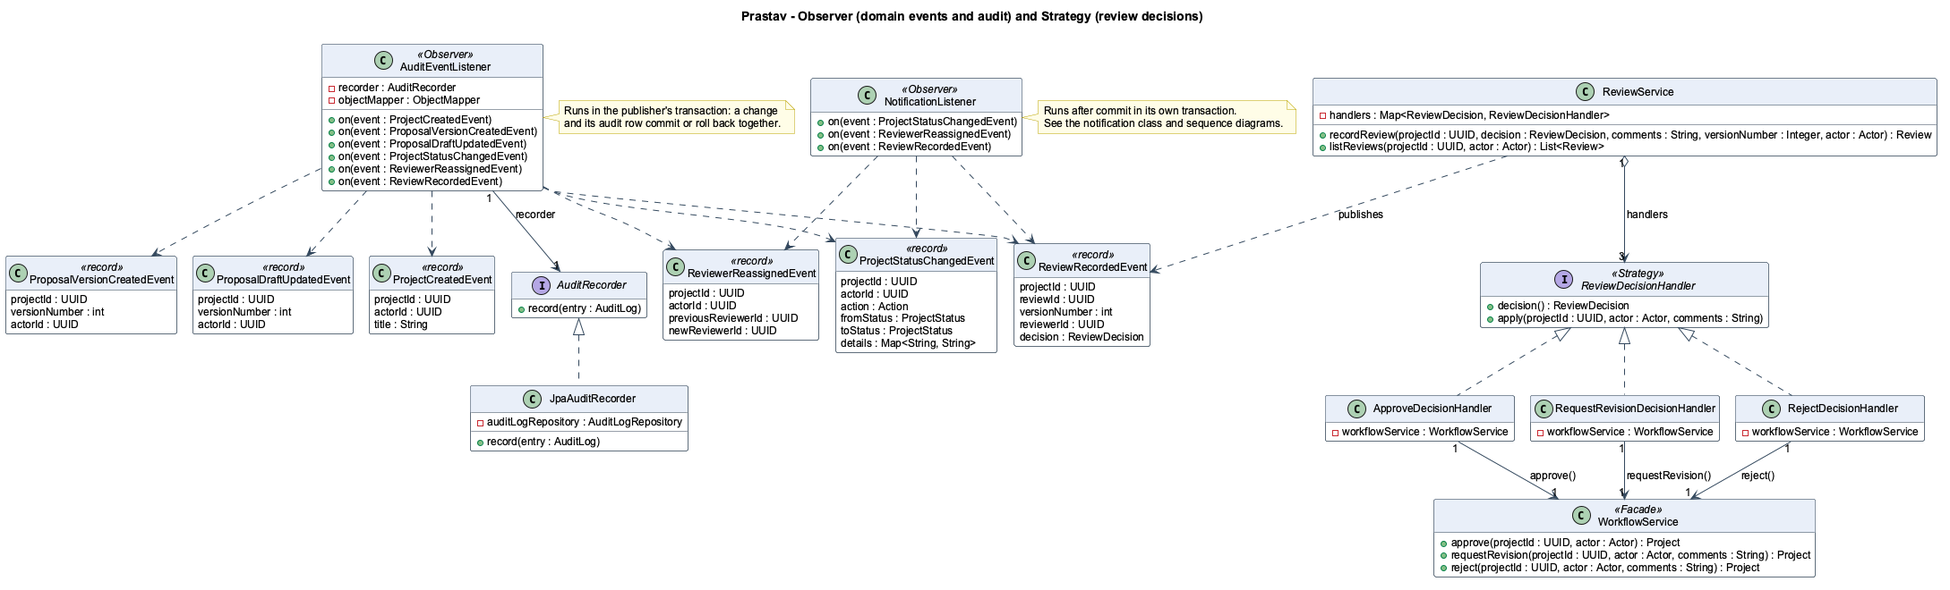
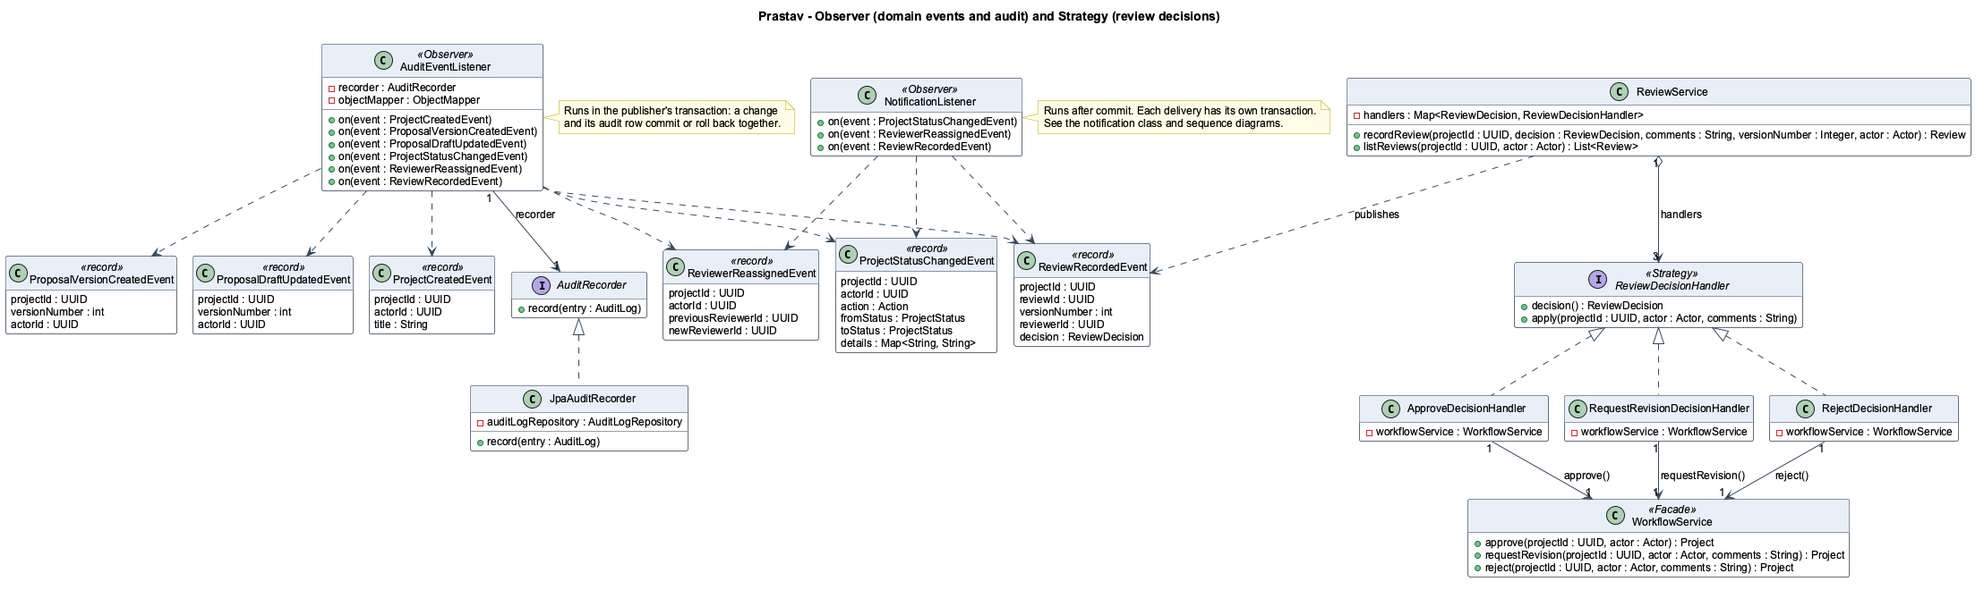
docs(notification): final delivery and conflict behaviour, dispatch diagram and FR-13

diff --git a/docs/LLD.md b/docs/LLD.md
@@ -70,8 +70,8 @@ AI proposal analysis, ML risk prediction, GitHub integration, an external event 
 | Optimistic locking on `Project` | `@Version Long version`, `CONCURRENT_UPDATE` mapping |
 | Swagger UI with Bearer auth | `OpenApiConfig`, `/swagger-ui.html` |
 | `allowedActions` in project detail | `AllowedActionsResolver`, `ProjectDetailResponse.allowedActions` |
-| Unit tests: every state, WorkflowService, ReviewService, versioning, project list and counts, email policy, registration and account creation, notification service, listener, channels and retries, reviewer reassignment, coordinator dashboard, audit query, notification flow, concurrent updates | 309 tests in `backend/src/test/java` (see section 16) |
-| MockMvc tests (401 / 403 / 404 / 409 / 400 mapping, list and summary endpoints, coordinator dashboard, account creation, notification inbox, audit log) | `ProjectControllerWebTest` (23 tests), `DashboardControllerWebTest` (6 tests), `ProposalControllerWebTest` (7 tests), `UserControllerWebTest` (4 tests), `NotificationControllerWebTest` (12 tests), `AuditControllerWebTest` (20 tests), `ConcurrentSubmissionWebTest` (4 tests) |
+| Unit tests: every state, WorkflowService, ReviewService, versioning, project list and counts, email policy, registration and account creation, notification service, listener, channels and retries, reviewer reassignment, coordinator dashboard, audit query, notification flow, concurrent updates | 321 tests in `backend/src/test/java` (see section 16) |
+| MockMvc tests (401 / 403 / 404 / 409 / 400 mapping, list and summary endpoints, coordinator dashboard, account creation, notification inbox, audit log) | `ProjectControllerWebTest` (23 tests), `DashboardControllerWebTest` (6 tests), `ProposalControllerWebTest` (8 tests), `UserControllerWebTest` (5 tests), `AuthControllerWebTest` (2 tests), `NotificationControllerWebTest` (12 tests), `AuditControllerWebTest` (20 tests), `ConcurrentSubmissionWebTest` (4 tests) |
 | React UI for three roles | `frontend/src` |
 | PostgreSQL via Docker Compose | `docker-compose.yml` (database only) |
 
@@ -268,10 +268,10 @@ Sequence for one event, for example a reviewer requesting changes:
 
 1. `ReviewService.recordReview` runs the transition and saves the `Review` in its transaction, then publishes `ReviewRecordedEvent`. `AuditEventListener` writes `REVIEW_RECORDED` inside that transaction.
 2. Spring holds the event for `NotificationListener` (`@TransactionalEventListener`, phase AFTER_COMMIT) until the transaction commits. If it rolls back, the listener is never called and nobody is notified about a change that did not happen.
-3. After the commit the listener starts a new transaction (`@Transactional(propagation = REQUIRES_NEW)`), loads the project through `ProjectStore.getById` and picks the recipient: the owner for a decision, the reviewer for an assignment or resubmission.
+3. After the commit the listener runs with no transaction of its own (`@Transactional(propagation = NOT_SUPPORTED)`), loads the project through `ProjectStore.getById` and picks the recipient: the owner for a decision, the reviewer for an assignment or resubmission.
 4. It builds a transient `Notification(recipient, project, type, message)` and calls `NotificationDispatcher.dispatch`.
-5. The dispatcher hands it to each enabled channel in configured order (`in-app`, then `email` by default), each wrapped in `RetryingNotificationChannel`. `InAppNotificationChannel` calls `NotificationService.create`, which joins the listener's transaction and does not flush; `EmailNotificationChannel` writes it to the log.
-6. A channel that still throws after its retries is logged at WARN and the next channel runs. The inbox row's INSERT runs when the listener's transaction commits, after the dispatcher has returned (see section 15.2). Because the business transaction has already committed, a delivery failure can never undo the review, assignment or resubmission.
+5. The dispatcher hands it to each enabled channel in configured order (`in-app`, then `email` by default), each wrapped in `RetryingNotificationChannel`. `InAppNotificationChannel` calls `NotificationService.create`, which runs in its own transaction (`REQUIRES_NEW`) and flushes inside it, so a failing INSERT throws inside the retry loop and every attempt starts clean; `EmailNotificationChannel` writes it to the log.
+6. A channel that still throws after its retries is logged at WARN and the next channel runs. No row is stored for that recipient, and the other notifications of the event still go out, because each has its own transaction. The business transaction has already committed, so a delivery failure can never undo the review, assignment or resubmission or its audit entry.
 7. The recipient reads it through `GET /api/notifications` (section 10.8).
 
 ![Observer and Strategy](uml/png/12_events_and_strategies.png)
@@ -402,6 +402,7 @@ Generated from `backend/src/main/java` (122 classes). Private helper methods are
 | Field | Type | Visibility |
 |---|---|---|
 | `log` | `static Logger` | private |
+| `PROJECT_CHANGED_MESSAGE`, `USER_EMAIL_CONSTRAINT`, `PROPOSAL_VERSION_CONSTRAINTS` | constants | private |
 
 **Methods:**
 
@@ -410,6 +411,7 @@ Generated from `backend/src/main/java` (122 classes). Private helper methods are
 - `public ResponseEntity<ApiError> handleMalformed(Exception ex, HttpServletRequest request)`
 - `public ResponseEntity<ApiError> handleAccessDenied(AccessDeniedException ex, HttpServletRequest request)`
 - `public ResponseEntity<ApiError> handleConcurrentUpdate(OptimisticLockingFailureException ex, HttpServletRequest request)`
+- `public ResponseEntity<ApiError> handleIntegrityViolation(DataIntegrityViolationException ex, HttpServletRequest request)`: a unique index rejected a write; the answer depends on the constraint and never exposes it
 - `public ResponseEntity<ApiError> handleNoResource(NoResourceFoundException ex, HttpServletRequest request)`
 - `public ResponseEntity<ApiError> handleUnexpected(Exception ex, HttpServletRequest request)`
 
@@ -462,6 +464,7 @@ Generated from `backend/src/main/java` (122 classes). Private helper methods are
 
 **Methods:**
 
+- `public static final String EMAIL_ALREADY_REGISTERED`: the one duplicate-email message, shared by `AuthService`, `UserService` and `GlobalExceptionHandler`
 - `public ValidationException(String message)`
 
 
@@ -2020,7 +2023,7 @@ Generated from `backend/src/main/java` (122 classes). Private helper methods are
 
 *class* `implements NotificationChannel` · @Component · `src/main/java/com/prastav/notification/InAppNotificationChannel.java`
 
-**Responsibility.** Strategy pattern: the NotificationChannel that stores the notification in the recipient's inbox.
+**Responsibility.** Strategy pattern: the NotificationChannel that stores the notification in the recipient's inbox. NotificationService#create commits its own transaction, so a returned call means the row is stored.
 
 | Field | Type | Visibility |
 |---|---|---|
@@ -2088,7 +2091,7 @@ Generated from `backend/src/main/java` (122 classes). Private helper methods are
 
 *class* · @Component · `src/main/java/com/prastav/notification/NotificationListener.java`
 
-**Responsibility.** Observer pattern. Subscribes to workflow and review events and tells the people involved through NotificationDispatcher: the assigned faculty member hears about an assignment and a resubmission, the student owner hears about every review decision, and a reassignment reaches both the old and the new reviewer. Why: the workflow and review code only publish facts and do not know notifications exist, so a new notification is a new handler here rather than an edit to a service. Handlers run after the publisher's transaction commits and in a transaction of their own, so a notification is only sent for a change that really happened, and a delivery problem can never roll that change back.
+**Responsibility.** Observer pattern. Subscribes to workflow and review events and tells the people involved through NotificationDispatcher: the assigned faculty member hears about an assignment and a resubmission, the student owner hears about every review decision, and a reassignment reaches both the old and the new reviewer. Why: the workflow and review code only publish facts and do not know notifications exist, so a new notification is a new handler here rather than an edit to a service. Handlers run after the publisher's transaction commits, so a notification is only sent for a change that really happened, and a delivery problem can never roll that change back. They hold no transaction themselves: each delivery has its own, so one failure cannot affect another, and no database connection is kept across a retry pause.
 
 | Field | Type | Visibility |
 |---|---|---|
@@ -2099,9 +2102,9 @@ Generated from `backend/src/main/java` (122 classes). Private helper methods are
 **Methods:**
 
 - `public NotificationListener(ProjectStore projectStore, UserService userService, NotificationDispatcher dispatcher)`
-- `public void on(ProjectStatusChangedEvent event)`: `@TransactionalEventListener`, `@Transactional(REQUIRES_NEW)`; ASSIGN_REVIEWER notifies the reviewer (REVIEWER_ASSIGNED); SUBMIT from REVISION_REQUESTED notifies the reviewer (RESUBMITTED); any other action is ignored
-- `public void on(ReviewerReassignedEvent event)`: `@TransactionalEventListener`, `@Transactional(REQUIRES_NEW)`; notifies the previous reviewer (REVIEWER_UNASSIGNED), then the new reviewer (REVIEWER_ASSIGNED)
-- `public void on(ReviewRecordedEvent event)`: `@TransactionalEventListener`, `@Transactional(REQUIRES_NEW)`; notifies the project owner (REVIEW_DECISION)
+- `public void on(ProjectStatusChangedEvent event)`: `@TransactionalEventListener`, `@Transactional(NOT_SUPPORTED)`; ASSIGN_REVIEWER notifies the reviewer (REVIEWER_ASSIGNED); SUBMIT from REVISION_REQUESTED notifies the reviewer (RESUBMITTED); any other action is ignored
+- `public void on(ReviewerReassignedEvent event)`: `@TransactionalEventListener`, `@Transactional(NOT_SUPPORTED)`; notifies the previous reviewer (REVIEWER_UNASSIGNED), then the new reviewer (REVIEWER_ASSIGNED)
+- `public void on(ReviewRecordedEvent event)`: `@TransactionalEventListener`, `@Transactional(NOT_SUPPORTED)`; notifies the project owner (REVIEW_DECISION)
 - `private void notify(User recipient, Project project, NotificationType type, String message)`: dispatches a new `Notification`
 
 #### `NotificationProperties`
@@ -2141,7 +2144,7 @@ Nested record `NotificationProperties.Retry`: `@Min(1) int maxAttempts, @NotNull
 **Methods:**
 
 - `public NotificationService(NotificationRepository notificationRepository)`
-- `public Notification create(User recipient, Project project, NotificationType type, String message)`: stores an unread notification; `project` may be null
+- `public Notification create(User recipient, Project project, NotificationType type, String message)`: stores an unread notification in its own `REQUIRES_NEW` transaction with `saveAndFlush`, so a failing INSERT throws here; `project` may be null
 - `public Page<Notification> listFor(Actor actor, boolean unreadOnly, Pageable pageable)`: newest first
 - `public Page<Notification> listFor(Actor actor, boolean unreadOnly, int page, int size)`: 400 VALIDATION_FAILED for a negative page or a size outside 1 to 50, otherwise the page above with `PageRequest.of(page, size)`
 - `public long unreadCount(Actor actor)`
@@ -2451,7 +2454,7 @@ Base path `/api`. All endpoints except register, login and Swagger need `Authori
 }
 ```
 
-Rules: `role` is optional and only STUDENT is accepted; the email must be on `prastav.institution.email-domain` and match `prastav.institution.student-email-pattern` (`<firstname>.<YY><branch>`), compared case-insensitively and stored lower-case. A faculty-style email, another domain, another role or a duplicate email returns 400 VALIDATION_FAILED; wrong credentials on login return 401 UNAUTHENTICATED with "Invalid email or password".
+Rules: `role` is optional and only STUDENT is accepted; the email must be on `prastav.institution.email-domain` and match `prastav.institution.student-email-pattern` (`<firstname>.<YY><branch>`), compared case-insensitively and stored lower-case. A faculty-style email, another domain, another role or a duplicate email returns 400 VALIDATION_FAILED, including when two registrations race for one email; wrong credentials on login return 401 UNAUTHENTICATED with "Invalid email or password".
 
 `POST /api/users` (COORDINATOR)
 
@@ -2459,7 +2462,7 @@ Rules: `role` is optional and only STUDENT is accepted; the email must be on `pr
 { "name": "Dr. Kavya Menon", "email": "kavya.menon@nst.rishihood.edu.in", "password": "Password@123", "role": "FACULTY" }
 ```
 
-`201 Created` with `UserResponse` (`admissionYear` and `branch` null). Only the institutional domain is checked, not the student pattern. STUDENT, another domain or a duplicate email returns 400 VALIDATION_FAILED; any other caller role returns 403 FORBIDDEN.
+`201 Created` with `UserResponse` (`admissionYear` and `branch` null). Only the institutional domain is checked, not the student pattern. STUDENT, another domain or a duplicate email, including one lost to a race, returns 400 VALIDATION_FAILED; any other caller role returns 403 FORBIDDEN.
 
 ### 10.2 Create project
 
@@ -2522,7 +2525,7 @@ Rules: `role` is optional and only STUDENT is accepted; the email must be on `pr
 
 `PUT /api/projects/{id}/proposal` with a full `ProposalContent` body (same six fields as above) returns `ProposalVersionResponse`. In SUBMITTED or UNDER_REVIEW it returns 409 `ILLEGAL_TRANSITION` "Action EDIT_DRAFT is not allowed while the project is SUBMITTED". In REVISION_REQUESTED before a new version exists it returns 409 "There is no open draft; create a new version first".
 
-`POST /api/projects/{id}/proposals` (no body) returns `201` with version N+1 in state DRAFT, prefilled from version N. A second call while that draft is open returns 409 "Version 2 is already an open draft".
+`POST /api/projects/{id}/proposals` (no body) returns `201` with version N+1 in state DRAFT, prefilled from version N. A second call while that draft is open returns 409 "Version 2 is already an open draft". When two calls overlap and both pass that check, the second returns 409 `CONCURRENT_UPDATE` and only one version is created.
 
 `GET /api/projects/{id}/proposals` returns all versions oldest first; submitted versions have `"state": "SUBMITTED"` and a `submittedAt`.
 
@@ -2823,6 +2826,7 @@ Expected business errors extend the abstract `PrastavException`, which carries a
 | `HttpMessageNotReadableException`, `MethodArgumentTypeMismatchException`, `MissingServletRequestParameterException` | `handleMalformed` | VALIDATION_FAILED |
 | `AccessDeniedException` from `@PreAuthorize` | `handleAccessDenied` | FORBIDDEN |
 | `OptimisticLockingFailureException` | `handleConcurrentUpdate` | CONCURRENT_UPDATE |
+| `DataIntegrityViolationException` | `handleIntegrityViolation` (`users_email_key`: VALIDATION_FAILED with the duplicate-email message; anything else: 409, logged unless it is a known version race) | VALIDATION_FAILED or CONCURRENT_UPDATE |
 | `NoResourceFoundException` | `handleNoResource` | NOT_FOUND |
 | any other `Exception` | `handleUnexpected` (logged with its stack trace) | INTERNAL_ERROR |
 
@@ -2830,16 +2834,18 @@ Requests rejected before they reach a controller (no token, invalid or expired t
 
 An exception in a `@Transactional` service rolls the transaction back, and the audit rows with it, because `AuditEventListener` runs inside that transaction. Failures after the commit are different: `NotificationDispatcher` catches a failing channel and logs it, so the caller still gets its success response.
 
+`handleIntegrityViolation` covers a request that passed its checks and then lost a race to a unique index. It chooses its answer from the constraint name, and that name, the SQL and the driver's message stay in the log, never in the response.
+
 ### 11.2 Error codes
 
 | Code | HTTP | Raised by | Example |
 |---|---|---|---|
-| VALIDATION_FAILED | 400 | `@Valid` failures (with `fieldErrors`), malformed JSON, UUID, enum or date, `ValidationException` (incomplete proposal, missing review comments, non-faculty assignee, reassignment to the current reviewer, non-student registration, email outside the institutional domain or student pattern, duplicate email, paging out of range, comparing a version with itself, audit `from` after `to`) | `fieldErrors: [{ "field": "title", "message": "must not be blank" }]` |
+| VALIDATION_FAILED | 400 | `@Valid` failures (with `fieldErrors`), malformed JSON, UUID, enum or date, `ValidationException` (incomplete proposal, missing review comments, non-faculty assignee, reassignment to the current reviewer, non-student registration, email outside the institutional domain or student pattern, duplicate email (from the check or from `users_email_key` when two requests race), paging out of range, comparing a version with itself, audit `from` after `to`) | `fieldErrors: [{ "field": "title", "message": "must not be blank" }]` |
 | UNAUTHENTICATED | 401 | `RestAuthErrorHandler.commence` (no/invalid/expired token), `UnauthenticatedException` (bad login) | "Authentication required: send a valid Bearer token" |
 | FORBIDDEN | 403 | `@PreAuthorize` denial, `ForbiddenException` from `ProjectAccessPolicy`, `Guards` or the services | "Only the assigned reviewer can review this project" |
 | NOT_FOUND | 404 | `NotFoundException`, a path with no endpoint | "Project 0b8f... not found" |
 | ILLEGAL_TRANSITION | 409 | `IllegalTransitionException`, `ConflictException` (edit submitted version, second open draft, stale versionNumber, resubmit without new version, no submitted version to review) | "Action APPROVE is not allowed while the project is SUBMITTED" |
-| CONCURRENT_UPDATE | 409 | `OptimisticLockingFailureException` on `Project.version` | "The project was changed by someone else at the same time. Reload and try again." |
+| CONCURRENT_UPDATE | 409 | `OptimisticLockingFailureException` on `Project.version`; `DataIntegrityViolationException` from `uq_proposal_project_version` or `ux_proposal_one_open_draft`; any other `DataIntegrityViolationException` ("The request conflicts with a change made at the same time. Reload and try again.") | "The project was changed by someone else at the same time. Reload and try again." |
 | INTERNAL_ERROR | 500 | anything unexpected (logged with stack trace, never returned) | "Unexpected server error" |
 
 ### 11.3 Validation rules
@@ -2910,7 +2916,7 @@ Tests:
 
 The test suite has no database, so `ConcurrentSubmissionWebTest` uses a store that behaves as `@Version` does: each request loads its own copy and the first save wins. The behaviour of the real column is not exercised by `mvn test`.
 
-The lock covers `Project` only. Operations that do not save a project behave differently (section 15.2).
+The lock covers `Project` only. Operations that do not save a project rely on unique indexes or are last-write-wins (section 15.2).
 
 ## 12. Security design
 
@@ -2948,7 +2954,7 @@ The lock covers `Project` only. Operations that do not save a project behave dif
 | Strategy (review decisions) | `ReviewDecisionHandler`, `ApproveDecisionHandler`, `RequestRevisionDecisionHandler`, `RejectDecisionHandler`, looked up by `ReviewService` | Each decision triggers a different transition; a lookup by decision replaces a `switch` in the service |
 | Strategy (notification channels) | `NotificationChannel`, `InAppNotificationChannel`, `EmailNotificationChannel`, chosen by `NotificationDispatcher` from `prastav.notification.enabled-channels` | Delivery routes are chosen by configuration, and a new route is a new class |
 | Strategy (email policy) | `EmailPolicy`, `PatternEmailPolicy`, used by `AuthService`, `UserService` and `DemoDataSeeder` | Address rules differ per institution; the services must not know them |
-| Decorator | `RetryingNotificationChannel` wrapping every channel enabled in `NotificationDispatcher` | Retrying is added around any channel without changing it, and every channel is retried the same way. It sees only failures thrown during `deliver` (section 15.2) |
+| Decorator | `RetryingNotificationChannel` wrapping every channel enabled in `NotificationDispatcher` | Retrying is added around any channel without changing it, and every channel is retried the same way. Because `NotificationService.create` flushes in its own transaction, a failing INSERT is one of those failures |
 | Factory | `ProjectStateFactory` (status to state, fails at startup if a status is missing or claimed twice), `ProposalVersionFactory` (v1, and vN+1 prefilled from vN) | Lookup and creation rules live in one place: version numbering cannot be bypassed, and callers never pick a state class |
 | Builder | `AuditLog.builder()` / `AuditLog.Builder` | An audit entry has six fields, several optional; named steps read better than a long constructor, and `build` checks the required ones |
 | Facade | `WorkflowService` | One small API over states, persistence and events, so every status change takes the same audited path in one transaction |
@@ -2979,7 +2985,8 @@ One named class per principle. The same reasoning applies across the codebase.
 | Modular monolith | Microservices | One team, one database, simple transactions; modules can be split later along the same boundaries | Discipline needed to respect module boundaries |
 | State pattern | Enum + switch | Open/closed, one class per status, isolated tests | More classes; reading the flow means opening several files (mitigated by the diagrams) |
 | Synchronous `@EventListener` for audit | `@TransactionalEventListener(AFTER_COMMIT)`, outbox | Audit must be exactly as durable as the change: same transaction | A failing audit insert rolls back the business change (acceptable: audit is mandatory) |
-| `@TransactionalEventListener` (after commit, `REQUIRES_NEW`) for notifications | Synchronous `@EventListener`, outbox | Nobody is notified about a change that rolled back, and a delivery failure or retry pause never rolls back or holds the business transaction | A crash between the commit and the dispatch loses that notification (no outbox) |
+| `@TransactionalEventListener` (after commit) for notifications, with one `REQUIRES_NEW` transaction per delivery attempt | Synchronous `@EventListener`, outbox, one transaction around all deliveries | Nobody is notified about a change that rolled back; a delivery failure never rolls back the business change, and one failed attempt cannot affect the next attempt or another recipient | A crash between the commit and the dispatch loses that notification (no outbox); a notification that fails every attempt is logged, not stored |
+| `hibernate.connection.handling_mode: DELAYED_ACQUISITION_AND_RELEASE_AFTER_TRANSACTION` | Spring's default of holding the connection until the transaction's synchronizations finish; a larger pool | After-commit delivery needs a connection of its own. Holding the request's connection let a burst of requests exhaust the pool while each waited for a second one, and the waiting requests then failed. Returning it at commit removes that wait | A transaction can no longer set a custom isolation level; none does |
 | Immutable versions + DB trigger | Edit in place with history table | Reviews must judge exactly the submitted text; defence in depth | Each revision duplicates text (tiny) |
 | Single reviewer per project | Reviewer panel | One accountable reviewer keeps the workflow simple | Two-reviewer rule needs a policy change (see INTERVIEW_PREP) |
 | Proposal as text fields + link | File upload | No file storage; fields can be validated and compared one by one | Formatting is plain text |
@@ -2998,17 +3005,15 @@ The frontend has no automated tests. The JWT is kept in browser storage. Docker 
 
 The backend tests run without a database, so JPQL, Flyway migrations and the real `@Version` column are not exercised by `mvn test`.
 
-**A failed in-app notification insert is not retried.** `NotificationService.create` joins the listener's transaction and does not flush, so the INSERT runs when that transaction commits, after `RetryingNotificationChannel` and `NotificationDispatcher` have returned. A database failure there is logged by Spring and that inbox row is lost, with no retry and no dispatcher warning. A failure thrown during `deliver` is attempted again but marks the shared transaction rollback-only, so the row is lost in that case too. The committed business change is never affected, and `EmailNotificationChannel` is not affected.
+A notification that fails every attempt is logged at WARN and not stored; it is not queued for later.
 
-**Only `Project` has a version column.** Concurrent operations that do not save a project are not turned into `CONCURRENT_UPDATE`:
+**Only `Project` has a version column.** Concurrent operations that do not save a project are handled by unique indexes or are last-write-wins:
 
 | Simultaneous requests | Result | Data |
 |---|---|---|
-| Two `POST /api/projects/{id}/proposals` | One 201; the other 500 `INTERNAL_ERROR` when both pass the open-draft check (`uq_proposal_project_version` rejects the second), otherwise 409 `ILLEGAL_TRANSITION` | One new version |
-| Two registrations with one email | One 201, one 500 `INTERNAL_ERROR` (`users_email_key` rejects the second) | One account |
-| Two `PUT /api/projects/{id}/proposal` | Both 200; the last write wins | One draft, holding the later content |
-
-`DataIntegrityViolationException` has no handler of its own, so it reaches `GlobalExceptionHandler.handleUnexpected`. The database constraints keep the data correct in each case.
+| Two `POST /api/projects/{id}/proposals` | One 201; the other 409 `CONCURRENT_UPDATE` when both pass the open-draft check (`uq_proposal_project_version` rejects the second), otherwise 409 `ILLEGAL_TRANSITION` | One new version |
+| Two registrations with one email | One 201; the other 400 `VALIDATION_FAILED` "Email is already registered", the same answer as the check before the insert | One account |
+| Two `PUT /api/projects/{id}/proposal` | Both 200; the last write wins, which is acceptable because a draft has one author | One draft, holding the later content |
 
 ## 16. Testing design
 
@@ -3042,17 +3047,18 @@ The backend tests run without a database, so JPQL, Flyway migrations and the rea
 | `InstitutionConfigTest` | the shipped `application.yml` binds `InstitutionProperties` and parses a demo student email |
 | `AuthServiceTest` | student registration stores admission year and branch; omitted role means STUDENT; FACULTY and COORDINATOR, faculty-style email, other domain and duplicate email rejected |
 | `UserServiceTest` | coordinator creates FACULTY and COORDINATOR without the student pattern; other callers 403; STUDENT, other domain and duplicate email rejected |
-| `ProposalControllerWebTest` (MockMvc, `@WebMvcTest`) | compare body (`fromVersion`, `toVersion`, `fields[]`); 404, 400 and 403 error bodies; missing or non-numeric version 400 without calling the service; 401 without token; an empty field is returned as null rather than left out |
-| `UserControllerWebTest` (MockMvc, `@WebMvcTest`) | coordinator gets 201 `UserResponse`; student 403; missing role 400 with field error; policy rejection 400 |
-| `NotificationServiceTest` | create stores an unread notification (project optional, recipient/type/message required); list and unread count scoped to the caller, unread-only filter; page and size passed to the repository, negative page and size 0 or 51 rejected; recipient marks read; another user 403; unknown id 404; mark-all-read scoped to the caller; mapper with and without project |
+| `ProposalControllerWebTest` (MockMvc, `@WebMvcTest`) | compare body (`fromVersion`, `toVersion`, `fields[]`); 404, 400 and 403 error bodies; missing or non-numeric version 400 without calling the service; 401 without token; an empty field is returned as null rather than left out; simultaneous next-version requests give the loser 409 with no database detail |
+| `UserControllerWebTest` (MockMvc, `@WebMvcTest`) | coordinator gets 201 `UserResponse`; student 403; missing role 400 with field error; policy rejection 400; losing an account-creation race answers like the duplicate-email check |
+| `AuthControllerWebTest` (MockMvc, `@WebMvcTest`) | the duplicate-email check and losing a registration race to the unique index give the client the same 400 |
+| `NotificationServiceTest` | create stores an unread notification (project optional, recipient/type/message required); list and unread count scoped to the caller, unread-only filter; page and size passed to the repository, negative page and size 0 or 51 rejected; recipient marks read; another user 403; unknown id 404; mark-all-read scoped to the caller; mapper with and without project; create flushes with `saveAndFlush` |
 | `NotificationListenerTest` | assignment notifies the assigned faculty (REVIEWER_ASSIGNED); resubmission from REVISION_REQUESTED notifies the faculty with the version (RESUBMITTED); a first submission and a decision's status change notify nobody; each of the three decisions notifies the student owner with its message (REVIEW_DECISION); reassignment notifies the previous reviewer (REVIEWER_UNASSIGNED) and the new reviewer (REVIEWER_ASSIGNED) |
 | `NotificationDispatcherTest` | every enabled channel called in configured order; a throwing channel is retried up to max attempts and does not stop the others; every channel is wrapped in the retry decorator; a channel left out of the configuration is never called; unknown channel name rejected |
-| `NotificationChannelTest` | in-app channel stores through `NotificationService.create`; email channel only logs; the shipped `application.yml` enables `in-app` and `email` with 3 attempts and a 200ms delay |
+| `NotificationChannelTest` | in-app channel stores through `NotificationService.create`; email channel only logs; the shipped `application.yml` enables `in-app` and `email` with 3 attempts and a 200ms delay; the shipped `application.yml` returns the connection at commit |
 | `RetryingNotificationChannelTest` | no retry on success; succeeds on a later attempt; gives up after max attempts and rethrows the last failure; keeps the wrapped name; at least one attempt required; a single attempt does not retry; pauses between attempts; an interrupt during the pause stops retrying and keeps the interrupt flag; an `Error` is not retried; delegate and delay required |
 | `NotificationControllerWebTest` (MockMvc, `@WebMvcTest`) | 401 without token; each of the three roles lists its own inbox with default paging and the page envelope; `unread`, `page` and `size` bound; out-of-range size 400 from the service; malformed page or id 400 without calling the service; unread count; recipient marks one read; another user's notification 403; unknown id 404; read-all returns the changed count |
-| `NotificationFlowTest` (small Spring context, real transaction lifecycle, repositories mocked) | real `WorkflowService`, listener, dispatcher, retry decorator, channels and `NotificationService`: assignment, resubmission, reassignment and review decision reach the right recipients through both channels; a first submission stores nothing; nothing is sent before commit, after a rollback, after a commit lost to an optimistic lock or after a refused transition; a throwing inbox write is attempted again; an inbox that keeps failing never undoes the change or stops email |
+| `NotificationFlowTest` (small Spring context, real transaction lifecycle, repositories mocked) | real `WorkflowService`, listener, dispatcher, retry decorator, channels and `NotificationService`: assignment, resubmission, reassignment and review decision reach the right recipients through both channels; a first submission stores nothing; nothing is sent before commit, after a rollback, after a commit lost to an optimistic lock or after a refused transition; the transaction manager models JPA (`save` writes at commit, `saveAndFlush` at once, rollback discards): a failed insert is retried and the next attempt stores the row; when every attempt fails nothing is stored, one failure is logged, and the change and audit entry stay committed; one recipient failing does not stop the other notification of the event or a later event |
 | `ProjectAccessPolicyTest` | a reassignment moves view access from the previous to the new reviewer; owner and coordinator keep it |
-| `GlobalExceptionHandlerTest` | `OptimisticLockingFailureException` and its JPA subclass become 409 `CONCURRENT_UPDATE` with the standard message and path |
+| `GlobalExceptionHandlerTest` | `OptimisticLockingFailureException` and its JPA subclass become 409 `CONCURRENT_UPDATE` with the standard message and path; a version race on either constraint is 409 `CONCURRENT_UPDATE`; `users_email_key` answers like the duplicate-email check; any other integrity violation, with or without a constraint name, is 409; no response contains SQL or a constraint name |
 | `ConcurrentSubmissionWebTest` (MockMvc, `@WebMvcTest`, real `WorkflowService`, version-checking store) | two simultaneous submissions give one 200 and one 409 `CONCURRENT_UPDATE` with one event published; a submission arriving after the first committed is 409 `ILLEGAL_TRANSITION`; a reassignment losing a race is 409 `CONCURRENT_UPDATE`; `Project.version` carries `@Version` |
 | `DashboardControllerWebTest` (MockMvc, `@WebMvcTest`) | coordinator gets 200 with counts, awaiting-assignment rows (id, owner, waitingSince) and reviewer workload; student and faculty 403 `FORBIDDEN` without calling the service; 401 `UNAUTHENTICATED` without token; an empty summary keeps every list and count; a faculty member with no open review appears with zero |
 | `ProjectControllerWebTest` (MockMvc, `@WebMvcTest`) | 401 without token; 403 for a student calling assign; 409 body for an illegal transition; list filter binding (including `admissionYear` and `branch`) and the page envelope (`content`, `page`, `size`, `totalElements`, `totalPages`); defaults for a call without parameters; 400 `VALIDATION_FAILED` for an unknown status or sort, a malformed reviewer id, a negative or non-numeric page, a non-numeric admission year and size 0 or 51; 403 for a student batch filter; summary body; `PUT /{id}/assign` calls `reassignReviewer` for the coordinator, 403 for student and faculty, 400 without `facultyId`, 409 ILLEGAL_TRANSITION body outside UNDER_REVIEW; repeated status parameters; blank search and branch are no filters; a page past the end is empty but keeps the totals |

diff --git a/docs/PRD.md b/docs/PRD.md
@@ -49,7 +49,7 @@ Product decisions: one assigned faculty reviewer per project; a REJECTED project
 | FR-10 | Every state change, assignment, submission and review recorded in audit log (who, what, when, before/after) |
 | FR-11 | Project timeline view (all versions, reviews, status changes in order) |
 | FR-12 | Role-scoped project lists with status filter, case-insensitive search, a coordinator-only batch filter (owner's admission year and branch; other roles passing it get `FORBIDDEN`) and pagination (page from 0, size 1 to 50, default 10); filtering and paging run in the database; invalid parameters are rejected with `VALIDATION_FAILED` |
-| FR-13 | Notifications on reviewer assignment (to the faculty member), review decision (to the student owner) and resubmission (to the faculty member), sent only after the change commits and delivered through the configured channels (in-app inbox; email written to the log), each retried a configured number of times. Every user reads only their own inbox: paged list with an unread filter (page from 0, size 1 to 50, default 10), unread count, mark one or all as read; another user's notification is `FORBIDDEN`. The web app shows a bell in the top bar with the unread count (polled every 30 seconds) and a dropdown of the latest five, and a full notifications page with paging and "mark all read" |
+| FR-13 | Notifications on reviewer assignment (to the faculty member), review decision (to the student owner) and resubmission (to the faculty member), sent only after the change commits and delivered through the configured channels (in-app inbox; email written to the log). A failed delivery, including a failed inbox insert, is retried a configured number of times, each attempt in its own transaction. If every attempt fails it is logged and nothing is stored for that recipient, while the workflow change, its audit entry and the other notifications are unaffected. Every user reads only their own inbox: paged list with an unread filter (page from 0, size 1 to 50, default 10), unread count, mark one or all as read; another user's notification is `FORBIDDEN`. The web app shows a bell in the top bar with the unread count (polled every 30 seconds) and a dropdown of the latest five, and a full notifications page with paging and "mark all read" |
 | FR-14 | Compare two proposal versions of one project field by field: every proposal field with its value in each version and whether it changed, shown side by side on the Compare tab of the project page with changed fields highlighted; project participants only; a version outside the project is `NOT_FOUND`, the same version on both sides is `VALIDATION_FAILED` |
 | FR-15 | Coordinator dashboard (`GET /api/dashboard/summary`, coordinator only; other roles get `FORBIDDEN`): counts of all projects by status with every status present, the list of SUBMITTED projects that have no reviewer yet (oldest first, with owner and waiting-since time) and the reviewer workload, meaning the number of projects UNDER\_REVIEW per faculty member, including faculty with none. Counts are computed by grouped database queries, never by loading projects into memory. The web app shows this on a Dashboard page with a quick assign for each waiting project |
 | FR-16 | Coordinator audit log (`GET /api/audit`, coordinator only; other roles get `FORBIDDEN`): paged, newest first, filterable by project, actor, action and date range (from and to, both inclusive), with the filters combining with AND. A `from` after `to` or a page size outside 1 to 100 is `VALIDATION_FAILED` |

diff --git a/docs/diagrams.md b/docs/diagrams.md
@@ -861,7 +861,7 @@ classDiagram
   RequestRevisionDecisionHandler "1" --> "1" WorkflowService : requestRevision()
   RejectDecisionHandler "1" --> "1" WorkflowService : reject()
   note for AuditEventListener "Runs in the publisher's transaction: a change<br/>and its audit row commit or roll back together."
-  note for NotificationListener "Runs after commit in its own transaction.<br/>See the notification class and sequence diagrams."
+  note for NotificationListener "Runs after commit. Each delivery has its own transaction.<br/>See the notification class and sequence diagrams."
 ```
 
 ## 12. Sequence: notification dispatch
@@ -884,7 +884,7 @@ sequenceDiagram
   AEL->>DB: insert audit REVIEW_RECORDED
   Note over RS,NL: Spring holds the event for NotificationListener until the transaction ends
   alt the transaction commits
-    RS->>NL: on(ReviewRecordedEvent) after commit, in a new REQUIRES_NEW transaction
+    RS->>NL: on(ReviewRecordedEvent) after commit, the request's connection already returned
     NL->>ST: getById(projectId)
     ST-->>NL: Project
     NL->>NL: new Notification(owner, project, REVIEW_DECISION, message)
@@ -895,7 +895,8 @@ sequenceDiagram
         loop up to maxAttempts while delivery throws, pausing delay between attempts
           RNC->>IA: deliver(notification)
           IA->>NS: create(recipient, project, type, message)
-          NS->>NS: notificationRepository.save, not flushed yet
+          NS->>DB: new REQUIRES_NEW transaction: saveAndFlush runs the INSERT, then commit
+          Note over RNC,DB: A failing INSERT throws here, inside the retry loop, and rolls back only this attempt
         end
       else channel email
         loop up to maxAttempts while delivery throws, pausing delay between attempts
@@ -905,8 +906,7 @@ sequenceDiagram
       end
       RNC-->>ND: returns, or rethrows the last failure, which NotificationDispatcher logs at WARN before the next channel
     end
-    NL->>DB: commit of the REQUIRES_NEW transaction: INSERT into notifications
-    Note over NL,DB: This INSERT runs after the retry decorator has returned, so a failed INSERT is not retried. Spring logs it and that inbox row is lost. The committed review is not affected.
+    Note over NL,DB: Each attempt and each notification has its own transaction, so a failure cannot reach the committed review, its audit entry or another notification.
   else the transaction rolls back
     Note over RS,NL: NotificationListener is not called and nobody is notified
   end
@@ -1005,7 +1005,7 @@ classDiagram
   NotificationListener ..> Notification : creates
   NotificationRepository ..> Notification : stores
   Notification "*" --> "1" NotificationType : type
-  note for NotificationListener "After commit, REQUIRES_NEW.<br/>ASSIGN_REVIEWER and SUBMIT from REVISION_REQUESTED: reviewer.<br/>Review decision: owner.<br/>Reassignment: previous and new reviewer."
+  note for NotificationListener "After commit, no transaction of its own.<br/>ASSIGN_REVIEWER and SUBMIT from REVISION_REQUESTED: reviewer.<br/>Review decision: owner.<br/>Reassignment: previous and new reviewer."
   note for RetryingNotificationChannel "Retries a delivery that throws. The last failure is rethrown,<br/>and the dispatcher logs it and moves to the next channel."
 ```
 

diff --git a/docs/INTERVIEW_PREP.md b/docs/INTERVIEW_PREP.md
@@ -106,9 +106,9 @@ Version 1 is the original submission, so versions 2, 3 and 4 are the three resub
 
 How it works today (LLD section 6.1):
 
-1. `notification/NotificationListener.java` is a `@TransactionalEventListener` (after commit, `REQUIRES_NEW`) on `ProjectStatusChangedEvent` and `ReviewRecordedEvent`: ASSIGN_REVIEWER notifies the reviewer, a SUBMIT out of REVISION_REQUESTED notifies the reviewer, every review decision notifies the student owner.
+1. `notification/NotificationListener.java` is a `@TransactionalEventListener` (after commit, with no transaction of its own) on `ProjectStatusChangedEvent` and `ReviewRecordedEvent`: ASSIGN_REVIEWER notifies the reviewer, a SUBMIT out of REVISION_REQUESTED notifies the reviewer, every review decision notifies the student owner.
 2. It calls `NotificationDispatcher.dispatch`, which runs every channel named in `prastav.notification.enabled-channels`, each wrapped in `RetryingNotificationChannel`.
-3. `InAppNotificationChannel` stores the row through `NotificationService.create`; `EmailNotificationChannel` writes the email to the log.
+3. `InAppNotificationChannel` stores the row through `NotificationService.create`, which has its own `REQUIRES_NEW` transaction and flushes, so a failing insert is retried; `EmailNotificationChannel` writes the email to the log.
 4. `notification/web/NotificationController.java` serves the caller's inbox: `GET /api/notifications`, `GET /api/notifications/unread-count`, `PATCH /api/notifications/{id}/read`, `PATCH /api/notifications/read-all`.
 
 To add a channel (for example SMS): one `@Component` implementing `NotificationChannel` with `name()` returning `sms`, then add `sms` to `NOTIFICATION_CHANNELS`. It is retried like the others. **No workflow, project, proposal, review or listener class changes.** That is the live demonstration of Open/Closed.

diff --git a/README.md b/README.md
@@ -239,6 +239,8 @@ Unit tests cover every workflow state (legal and illegal transitions), `ProjectS
 
 `ProjectSortTest` covers every list order and its id tie-break. `ProjectSpecificationsTest`, `ProposalDiffServiceTest` and `DashboardServiceTest` also cover each list filter alone and combined, that a reviewer filter cannot widen a role's scope, literal wildcards in search, version comparison with empty fields and missing versions, and a dashboard with no projects. The tests run without a database, so the JPQL of the grouped dashboard queries runs only against PostgreSQL in the running application.
 
+`NotificationFlowTest` also covers delivery failures: a failed inbox insert is retried and stored, and when every attempt fails nothing is stored, the failure is logged, and the workflow change, its audit entry and other recipients are unaffected. `GlobalExceptionHandlerTest`, `ProposalControllerWebTest`, `UserControllerWebTest` and `AuthControllerWebTest` check that losing a race to a unique index gives a clean answer with no SQL or constraint name: 409 `CONCURRENT_UPDATE` for a proposal version, and the same 400 as the duplicate-email check for an email.
+
 ## Design patterns
 
 | Pattern | Where |
